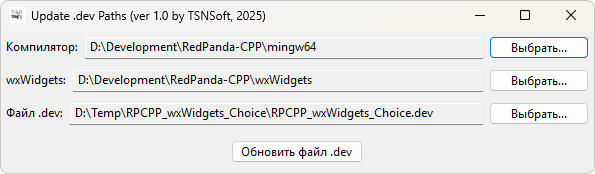
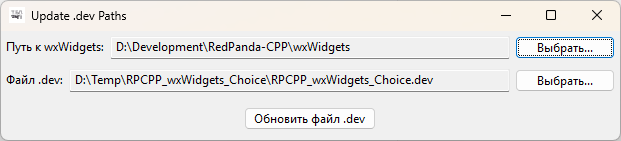
rev. 20250416104640

diff --git a/Source.cpp b/Source.cpp
@@ -20,17 +20,8 @@ public:
         wxBoxSizer* panelSizer = new wxBoxSizer(wxVERTICAL);
 
         // Поля для путей
-        wxBoxSizer* compilerSizer = new wxBoxSizer(wxHORIZONTAL);
-        compilerLabel = new wxStaticText(panel, wxID_ANY, wxT("Компилятор:"));
-        compilerText = new wxTextCtrl(panel, wxID_ANY, wxT(""), wxDefaultPosition, wxSize(400, -1), wxTE_READONLY);
-        compilerButton = new wxButton(panel, wxID_ANY, wxT("Выбрать..."), wxDefaultPosition, wxSize(100, -1));
-        compilerSizer->Add(compilerLabel, 0, wxALIGN_CENTER_VERTICAL | wxRIGHT, 5);
-        compilerSizer->Add(compilerText, 1, wxALIGN_CENTER_VERTICAL | wxRIGHT, 5); // Пропорция 1 для растяжки
-        compilerSizer->Add(compilerButton, 0, wxALIGN_CENTER_VERTICAL);
-        panelSizer->Add(compilerSizer, 0, wxEXPAND | wxALL, 5); // Добавлен wxEXPAND
-
         wxBoxSizer* wxWidgetsSizer = new wxBoxSizer(wxHORIZONTAL);
-        wxWidgetsLabel = new wxStaticText(panel, wxID_ANY, wxT("wxWidgets:"));
+        wxWidgetsLabel = new wxStaticText(panel, wxID_ANY, wxT("Путь к wxWidgets:"));
         wxWidgetsText = new wxTextCtrl(panel, wxID_ANY, wxT(""), wxDefaultPosition, wxSize(400, -1), wxTE_READONLY);
         wxWidgetsButton = new wxButton(panel, wxID_ANY, wxT("Выбрать..."), wxDefaultPosition, wxSize(100, -1));
         wxWidgetsSizer->Add(wxWidgetsLabel, 0, wxALIGN_CENTER_VERTICAL | wxRIGHT, 5);
@@ -60,7 +51,6 @@ public:
         LoadConfig();
 
         // Привязка событий
-        compilerButton->Bind(wxEVT_BUTTON, &MyFrame::OnSelectCompilerFolder, this);
         wxWidgetsButton->Bind(wxEVT_BUTTON, &MyFrame::OnSelectWxWidgetsFolder, this);
         devFileButton->Bind(wxEVT_BUTTON, &MyFrame::OnSelectDevFile, this);
         updateButton->Bind(wxEVT_BUTTON, &MyFrame::OnUpdateDevFile, this);
@@ -68,9 +58,6 @@ public:
 
 private:
     wxString CONFIG_FILE; // Член класса
-    wxStaticText* compilerLabel;
-    wxTextCtrl* compilerText;
-    wxButton* compilerButton;
     wxStaticText* wxWidgetsLabel;
     wxTextCtrl* wxWidgetsText;
     wxButton* wxWidgetsButton;
@@ -81,11 +68,8 @@ private:
 
     void LoadConfig() {
         wxFileConfig config(wxEmptyString, wxEmptyString, CONFIG_FILE);
-        wxString compilerFolder, wxWidgetsFolder, devFile;
+        wxString wxWidgetsFolder, devFile;
 
-        if (config.Read(wxT("Paths/CompilerFolder"), &compilerFolder) && wxFileName::DirExists(compilerFolder)) {
-            compilerText->SetValue(compilerFolder);
-        }
         if (config.Read(wxT("Paths/WxWidgetsFolder"), &wxWidgetsFolder) && wxFileName::DirExists(wxWidgetsFolder)) {
             wxWidgetsText->SetValue(wxWidgetsFolder);
         }
@@ -96,18 +80,9 @@ private:
 
     void SaveConfig() {
         wxFileConfig config(wxEmptyString, wxEmptyString, CONFIG_FILE);
-        config.Write(wxT("Paths/CompilerFolder"), compilerText->GetValue());
         config.Write(wxT("Paths/WxWidgetsFolder"), wxWidgetsText->GetValue());
         config.Write(wxT("Paths/DevFile"), devFileText->GetValue());
         config.Flush();
-    }
-
-    void OnSelectCompilerFolder(wxCommandEvent& event) {
-        wxDirDialog dlg(this, wxT("Выберите папку с компилятором"), compilerText->GetValue(),
-                        wxDD_DEFAULT_STYLE | wxDD_DIR_MUST_EXIST);
-        if (dlg.ShowModal() == wxID_OK) {
-            compilerText->SetValue(dlg.GetPath());
-        }
     }
 
     void OnSelectWxWidgetsFolder(wxCommandEvent& event) {
@@ -131,10 +106,6 @@ private:
 
     void OnUpdateDevFile(wxCommandEvent& event) {
         // Проверка заполненности полей
-        if (compilerText->GetValue().IsEmpty()) {
-            wxMessageBox(wxT("Пожалуйста, выберите папку компилятора."), wxT("Ошибка"), wxOK | wxICON_ERROR);
-            return;
-        }
         if (wxWidgetsText->GetValue().IsEmpty()) {
             wxMessageBox(wxT("Пожалуйста, выберите папку wxWidgets."), wxT("Ошибка"), wxOK | wxICON_ERROR);
             return;
@@ -145,10 +116,6 @@ private:
         }
 
         // Проверка существования путей
-        if (!wxFileName::DirExists(compilerText->GetValue())) {
-            wxMessageBox(wxT("Папка компилятора не существует."), wxT("Ошибка"), wxOK | wxICON_ERROR);
-            return;
-        }
         if (!wxFileName::DirExists(wxWidgetsText->GetValue())) {
             wxMessageBox(wxT("Папка wxWidgets не существует."), wxT("Ошибка"), wxOK | wxICON_ERROR);
             return;
